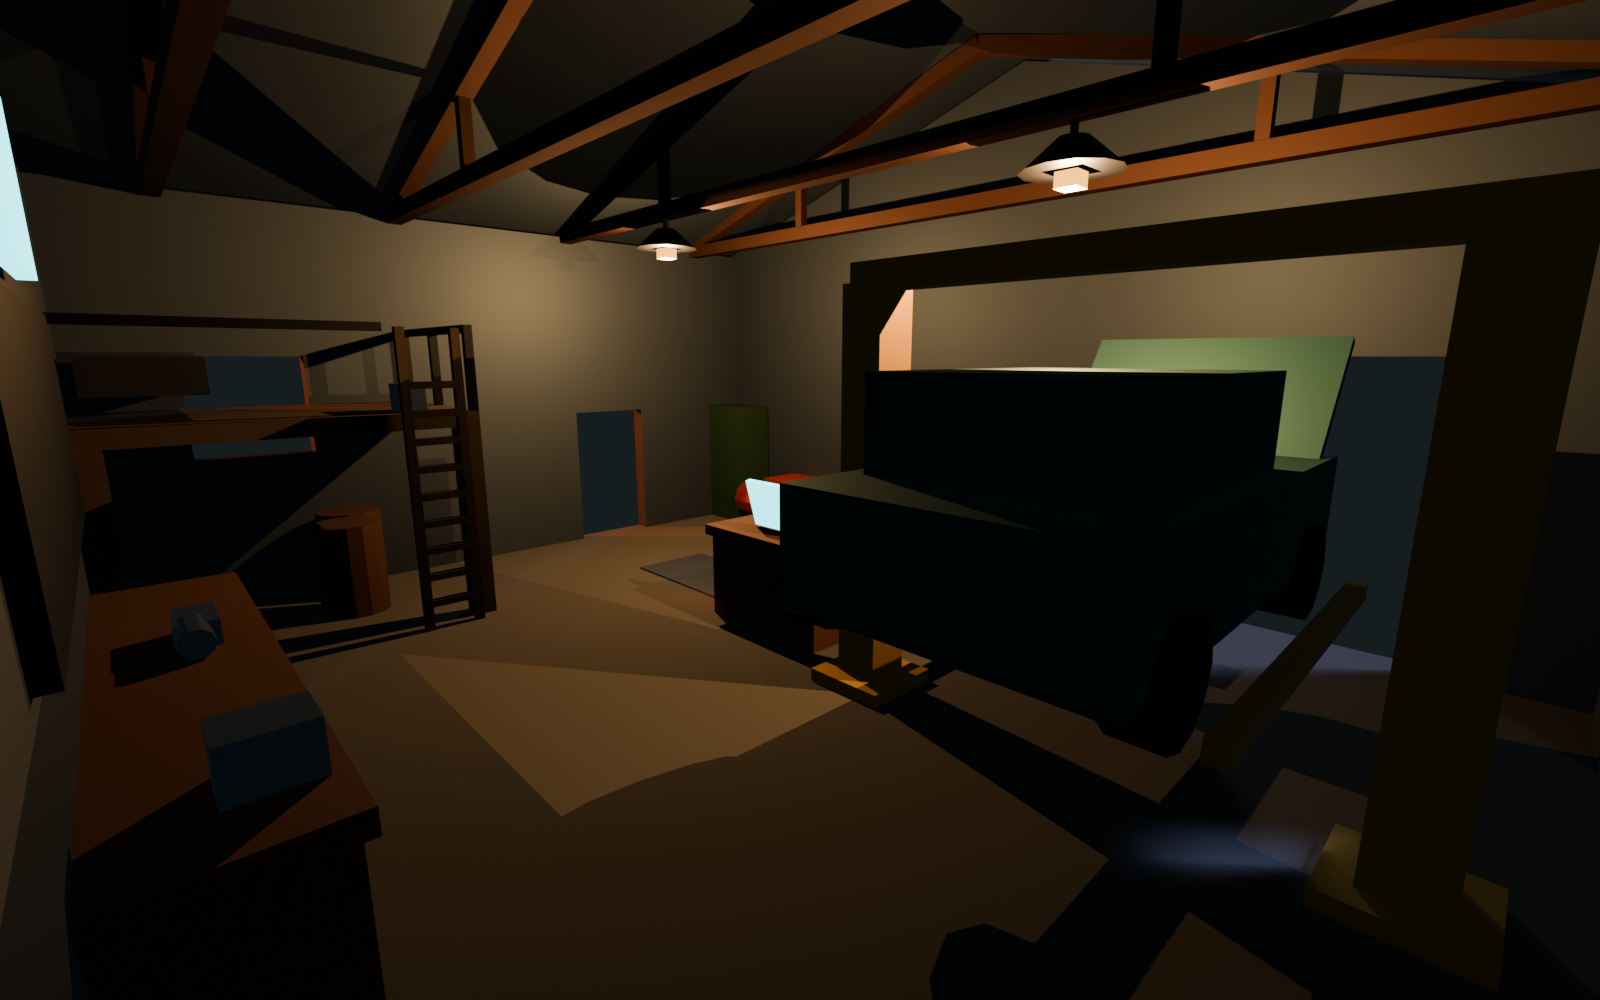
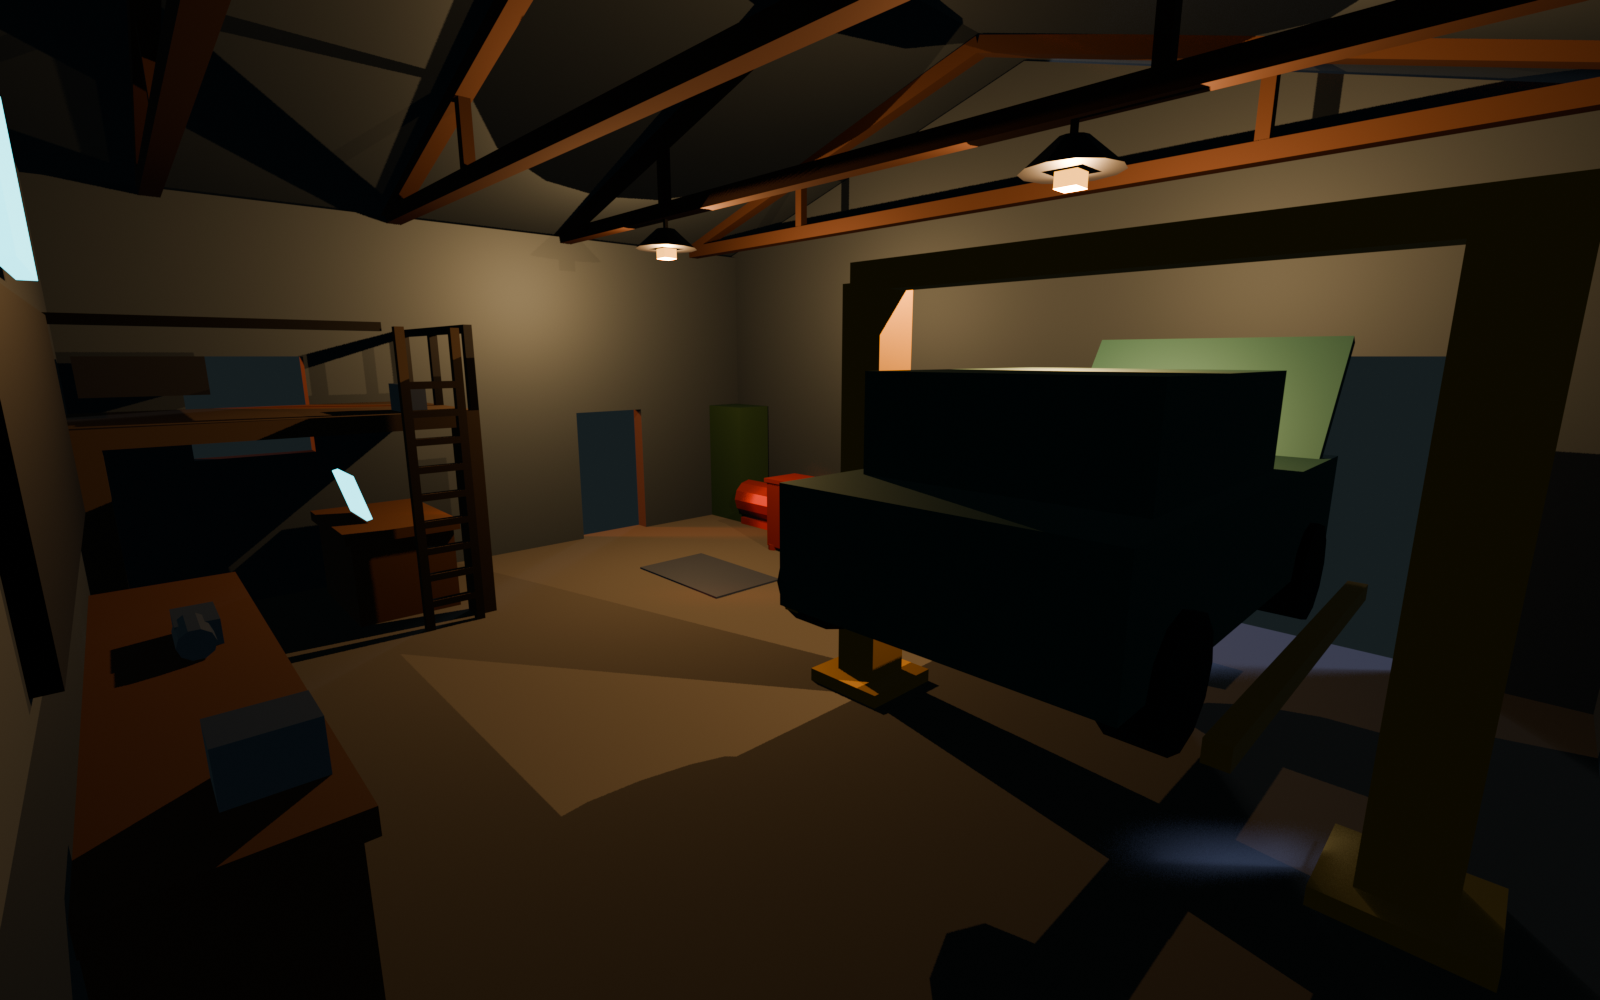
Linajes: taller, la compu va abajo del entrepiso y la cama arriba

Changed region(s): [[0.4375, 0.465, 0.5312, 0.682], [0.1562, 0.465, 0.2812, 0.651], [0.5625, 0.651, 0.5938, 0.682]]

diff --git a/linajes/arte/scripts/interiores/taller.py b/linajes/arte/scripts/interiores/taller.py
@@ -8,8 +8,8 @@ Planta de 40 x 32 studs (el prompt dice 40 x 30; 32 para que entre en la grilla 
 16 y techo a dos aguas con cumbrera a 22 (entra en el lote de 50 x 22 x 40 del graybox). Frente a la calle
 en -Y: portón de 12 x 10 a la izquierda (delante del elevador) y abierto. Oeste: elevador amarillo con
 el auto. Fondo: banco de roble con morsa y el gancho a medio armar, tablero de herramientas arriba.
-Centro: mesa de fabricación con pantalla cian. Este: entrepiso de madera con escalera, catre y radio;
-debajo, tambores. Esquina del frente al este: carro rojo, compresor y locker verde; puerta lateral en el
+Este: entrepiso de madera con escalera, catre y radio; debajo, la mesa de fabricación con la compu.
+Tambores en la esquina del fondo al oeste. Esquina del frente al este: carro rojo, compresor y locker verde; puerta lateral en el
 este. Piso de losas con rejilla y chapa semilla de melón. Dos lámparas colgantes cálidas.
 """
 
@@ -39,7 +39,7 @@ ENTREPISO = 8  # altura del piso del entrepiso
 MARCADORES = {
     "PuntoNPC_Tano": (-8, -4, 0),  # junto al auto
     "PuntoNPC_Nico": (2, 10, 0),  # junto al banco
-    "Banco": (2, -4, 0),  # mesa de fabricación
+    "Banco": (15.5, 3.4, 0),  # mesa de fabricación, abajo del entrepiso
     "Cama": (16, 12, ENTREPISO),  # catre del entrepiso
     "Salida": (-10, -17, 0),  # portón
     "Salida_Lateral": (21, PUERTA_Y, 0),
@@ -119,8 +119,8 @@ def muebles():
     o.append(pieza("Banco_Gancho", [((1.6, 0.8, 0.6), (bx + 2, by - 0.3, 3.85))], "acero", cilindros=[(0.35, 1.4, (bx + 0.4, by - 0.2, 3.9), "X", 10)]))
     o.append(pieza("Tablero", [((14, 0.3, 5), (bx, HY - G - 0.15, 8.5))], "hierro"))
     o.append(pieza("Ventana_Fondo", [((5, 0.3, 3.4), (bx, HY - G - 0.3, 13.2))], "neon-cian"))  # pantalla/ventana chica de la ref-1
-    # mesa de fabricación (centro) con pantalla
-    mx, my = 2, -4
+    # mesa de fabricación con la compu, abajo del entrepiso (la cama queda arriba)
+    mx, my = 15.5, 6.6
     o.append(pieza("MesaFabricacion", [((6, 4, 0.4), (mx, my, 3.4)), ((5.6, 3.6, 3.2), (mx, my, 1.6))], "roble"))
     o.append(pieza("MesaFabricacion_Pantalla", [((2.6, 0.2, 1.8), (mx, my + 1, 4.6), (-15, 0, 0))], "neon-cian"))
     # entrepiso este: piso de madera sobre 2 postes, baranda, escalera, catre y radio
@@ -137,7 +137,7 @@ def muebles():
     o.append(pieza("Escalera", esc, "madera-entrepiso"))
     o.append(pieza("Catre", [((6, 3, 0.8), (cx + 0.5, ey1 - 2, ENTREPISO + 1.2)), ((6, 3, 0.4), (cx + 0.5, ey1 - 2, ENTREPISO + 1.8))], "tela-oscura"))
     o.append(pieza("Radio", [((1.6, 0.8, 1.0), (ex0 + 1.5, ey0 + 2, ENTREPISO + 0.5))], "acero"))
-    o.append(pieza("Tambores", [], "oxido", cilindros=[(1.2, 3.6, (x, y, 0), "Z", 14) for x, y in ((15, 8), (17.6, 7.4))]))
+    o.append(pieza("Tambores", [], "oxido", cilindros=[(1.2, 3.6, (x, y, 0), "Z", 14) for x, y in ((-17.6, 12.4), (-15, 13))]))
     # esquina del frente al este: carro rojo, compresor y locker verde
     o.append(pieza("CarroHerramientas", [((3, 2, 3.4), (9, -11, 1.9)), ((3.2, 2.2, 0.2), (9, -11, 3.7))], "rojo-herramienta", cilindros=[(0.3, 0.3, (9 + sx * 1.2, -11 + sy * 0.8, 0), "Z", 8) for sx in (-1, 1) for sy in (-1, 1)]))
     o.append(pieza("Compresor", [((3, 1.6, 0.4), (14.5, -13.5, 0.2))], "rojo-herramienta", cilindros=[(1.1, 3.2, (13, -13.5, 1.5), "X", 12)]))

diff --git a/linajes/boveda/08 Lugares/Taller de Tano.md b/linajes/boveda/08 Lugares/Taller de Tano.md
@@ -46,8 +46,8 @@ Graybox con tag `Lugar`. Modelo nuevo pendiente (P25d rehecho).
 ![[interior-taller_boceto_fondo.png]]
 ![[interior-taller_boceto_corte.png]]
 
-**Dónde está cada cosa**: elevador con el auto al oeste, detrás del portón. Banco de roble con morsa y el gancho, con el tablero de herramientas arriba, en el fondo. Mesa de fabricación con pantalla cian en el centro. Entrepiso con escalera, catre y radio al este, con los tambores debajo. Carro rojo, compresor y locker verde en la esquina del frente, al este, al lado de la puerta lateral. Dos lámparas cálidas cuelgan de las cerchas.
-**Puntos para el código**: PuntoNPC_Tano (junto al auto), PuntoNPC_Nico (banco), Banco (mesa de fabricación), Cama (catre), Salida (portón), Salida_Lateral y Spawn_Civil.
+**Dónde está cada cosa**: elevador con el auto al oeste, detrás del portón. Banco de roble con morsa y el gancho, con el tablero de herramientas arriba, en el fondo. Entrepiso al este: **arriba**, el catre y la radio; **abajo**, la mesa de fabricación con la compu (cambio de Juani, 1 nov). Tambores en la esquina del fondo, al oeste. El centro queda libre para pelear. Carro rojo, compresor y locker verde en la esquina del frente, al este, al lado de la puerta lateral. Dos lámparas cálidas cuelgan de las cerchas.
+**Puntos para el código**: PuntoNPC_Tano (junto al auto), PuntoNPC_Nico (banco), Banco (mesa de fabricación, abajo del entrepiso), Cama (catre), Salida (portón), Salida_Lateral y Spawn_Civil.
 
 ## Cómo suena
 Radio vieja de fondo, amoladora, goteo.
